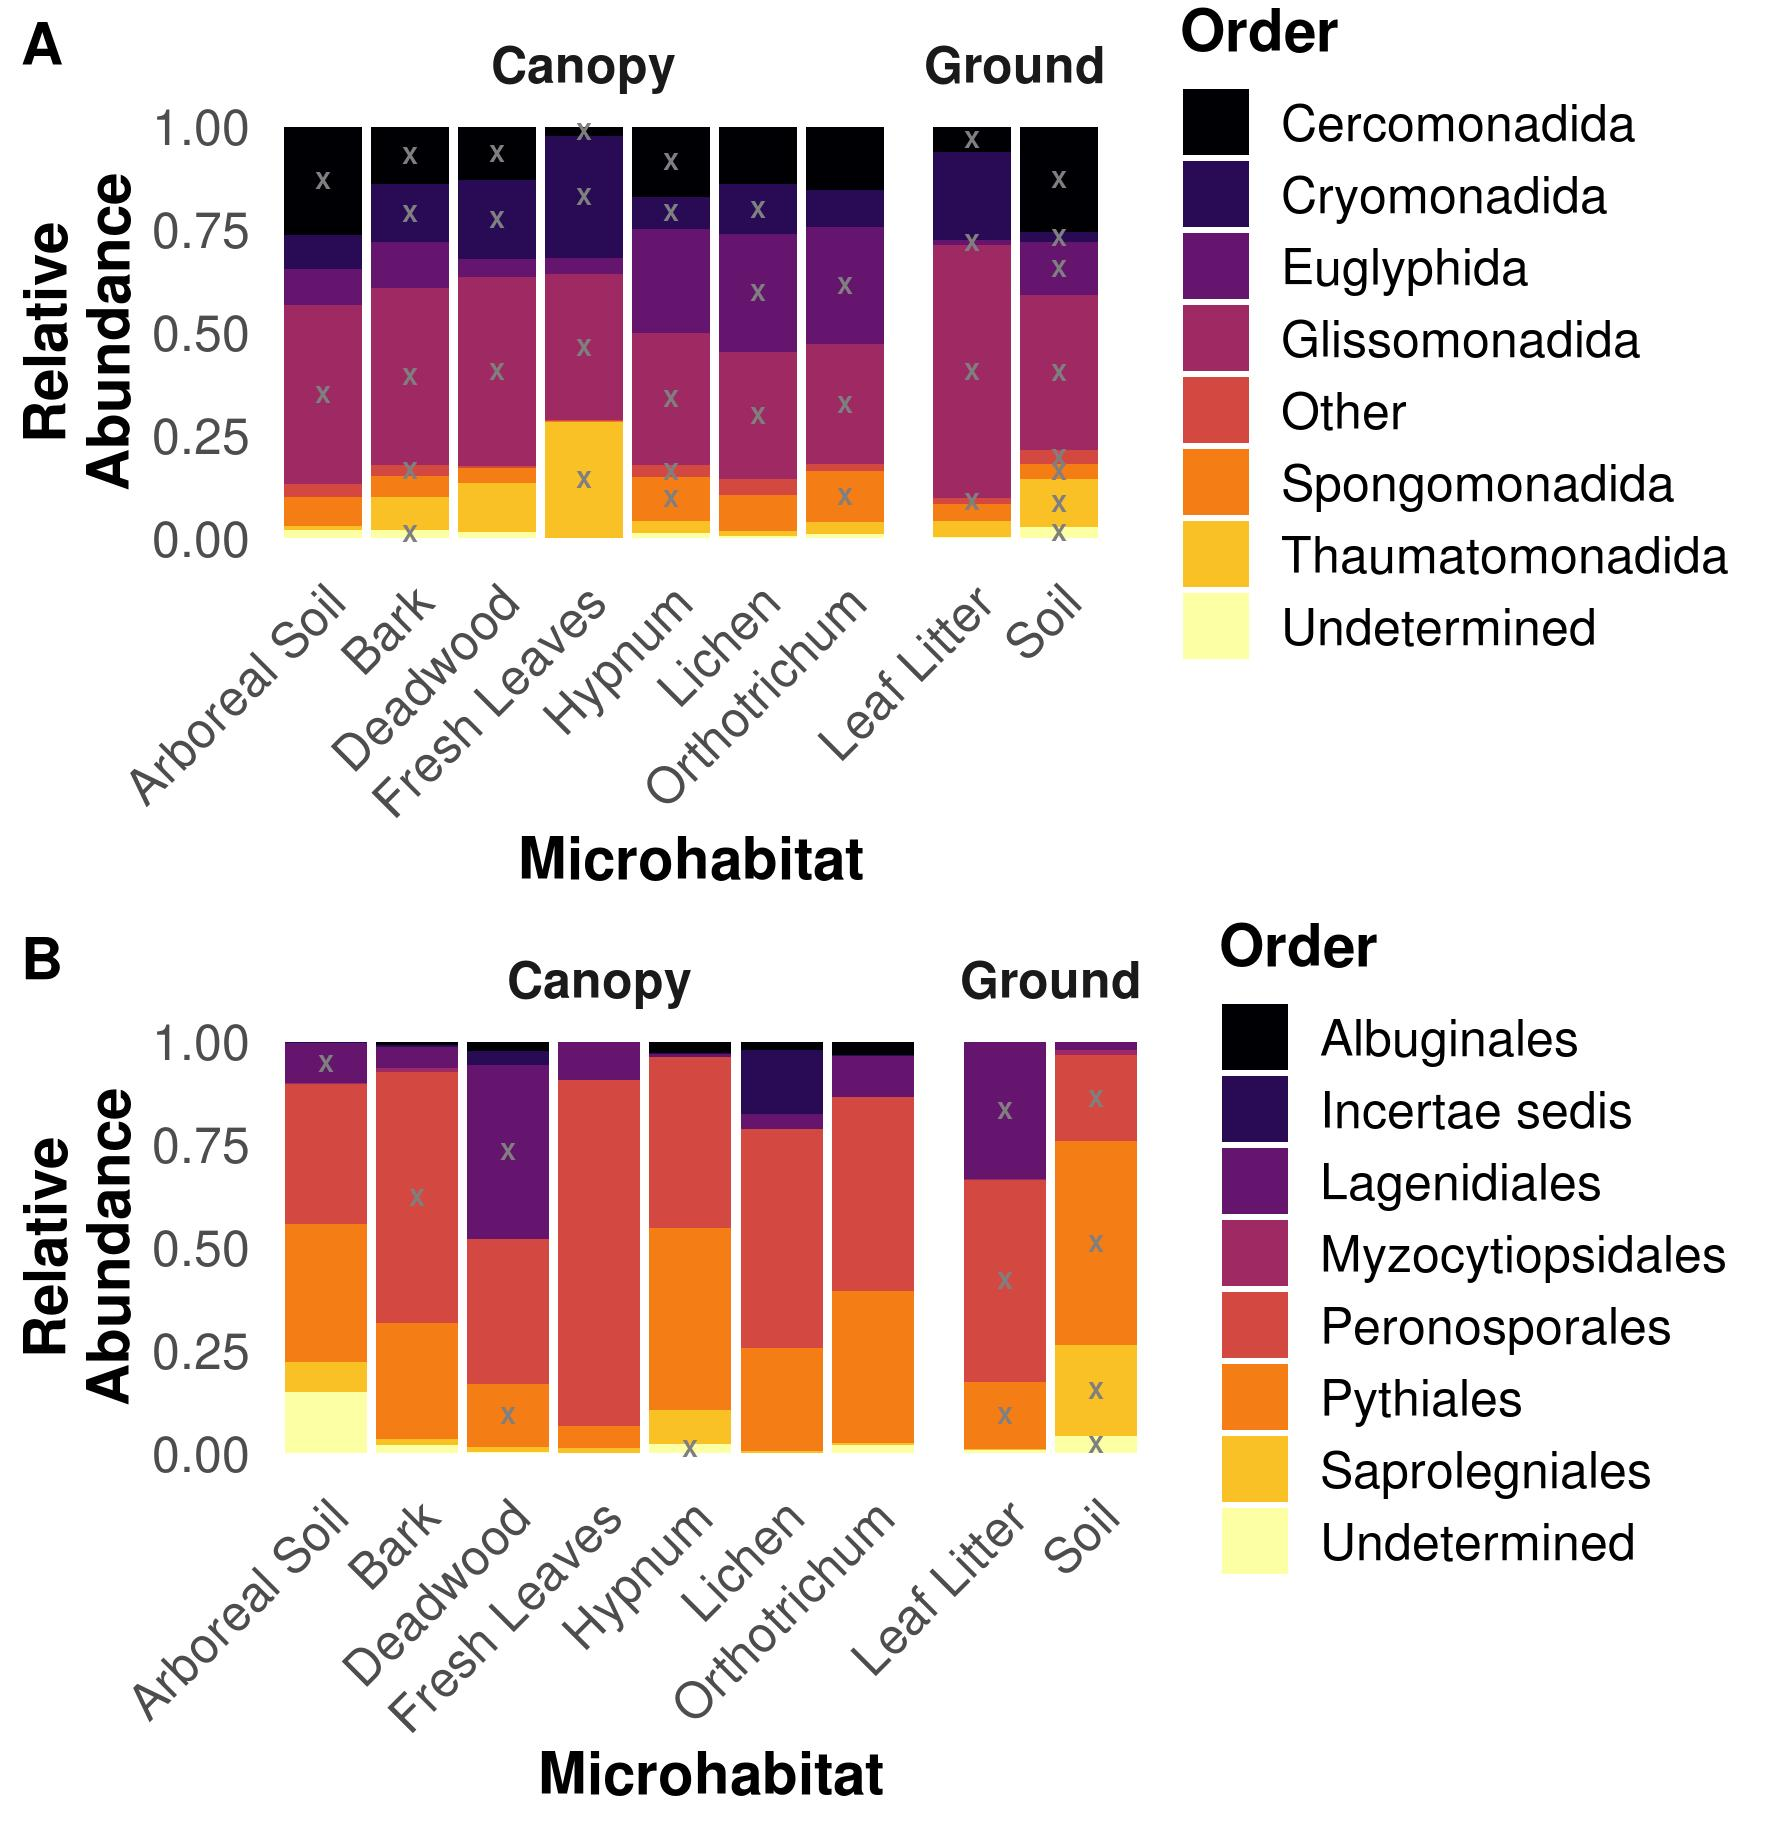
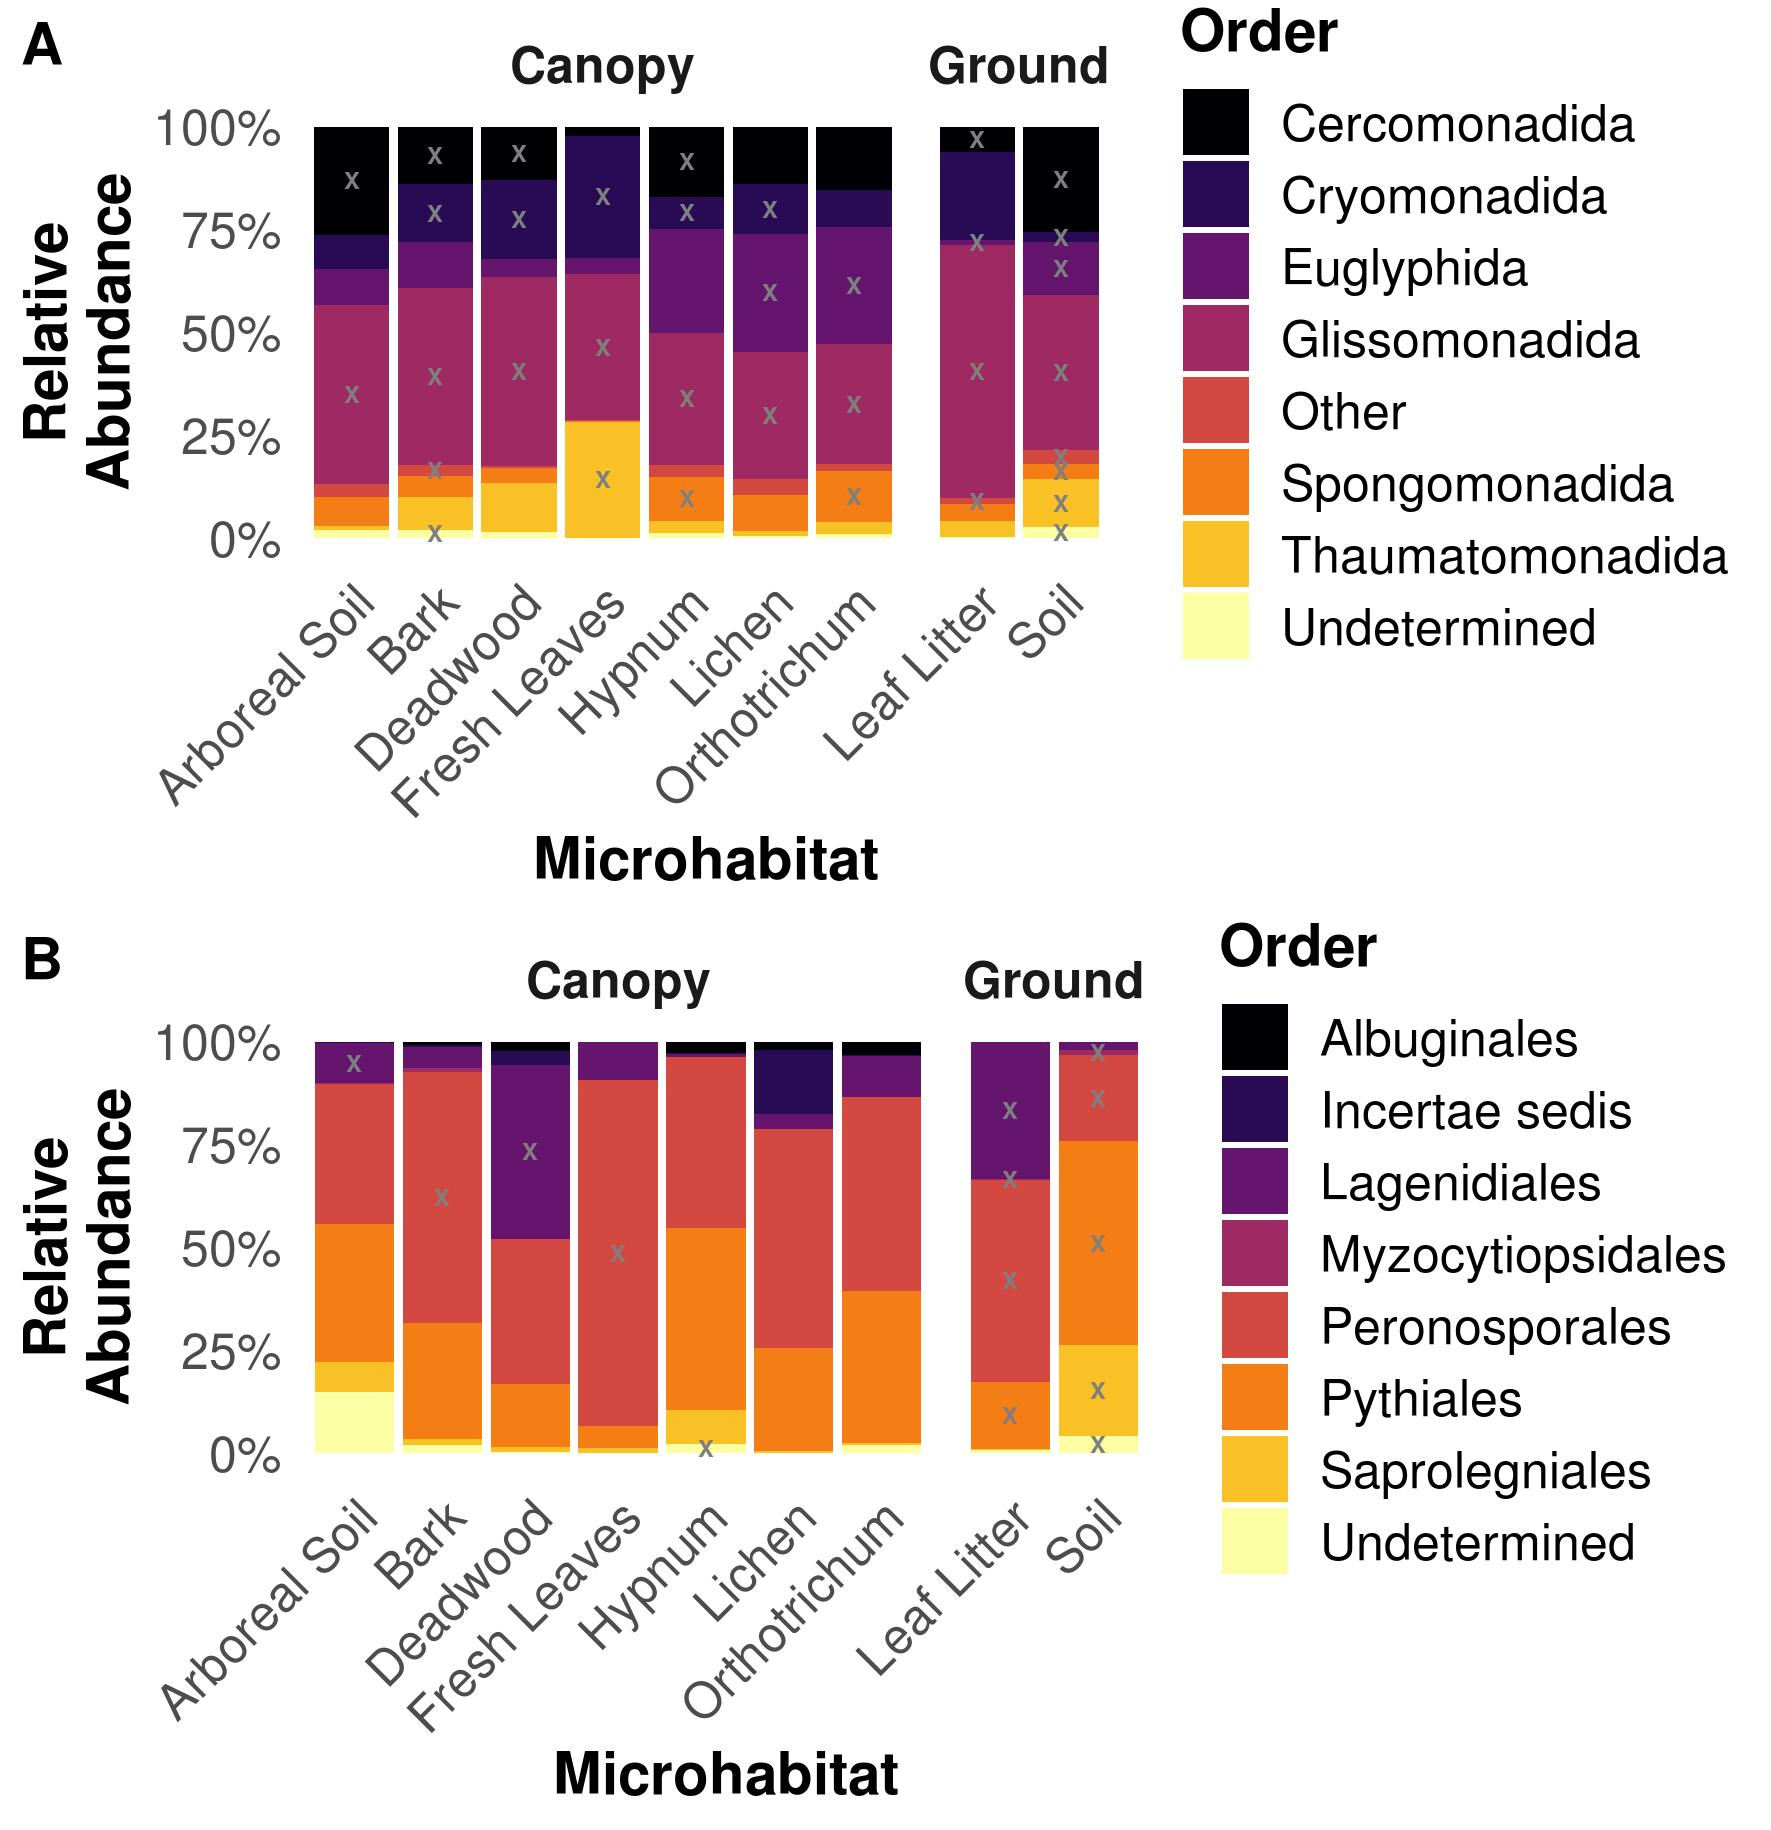
Converted labels in Taxonomy Plot to percent

diff --git a/02_Taxonomic_Annotation_and_Visualisation/TaxonomyPerMicrohabitat.md b/02_Taxonomic_Annotation_and_Visualisation/TaxonomyPerMicrohabitat.md
@@ -123,7 +123,7 @@ OrderData = OrderDataFunction(incidence = F)
 g = ggplot(OrderData, aes(x = Microhabitat, y = Abundance, fill = Order)) + 
   geom_bar(position = position_fill(), stat = "identity") + 
   facet_grid(cols = vars(Stratum), scales = "free", space = "free") + 
-  scale_y_continuous(labels = scales::comma) +
+  scale_y_continuous(labels = scales::percent) +
   labs(y = "Relative\nAbundance") + 
   scale_fill_viridis(discrete = T, option = "B") +
   theme_minimal() +
@@ -234,7 +234,7 @@ OrderData_cerco = OrderDataFunction_cerco(incidence = F)
 g_cerco = ggplot(OrderData_cerco, aes(x = Microhabitat, y = Abundance, fill = Order)) + 
   geom_bar(position = position_fill(), stat = "identity") + 
   facet_grid(cols = vars(Stratum), scales = "free", space = "free") + 
-  scale_y_continuous(labels = scales::comma) +
+  scale_y_continuous(labels = scales::percent) +
   labs(y = "Relative\nAbundance") + 
   scale_fill_viridis(discrete = T, option = "B") +
   #scale_fill_brewer(type = "qual", palette = "Paired") + 
@@ -264,15 +264,15 @@ combi = ggarrange(g_cerco, g,
 #ggsave("TaxonomicCompositionCombined.tif", plot = combi, 
 #       device = "tiff", dpi = 600, width = 30, height = 37, 
 #       units = "cm")
-ggsave("TaxonomyPerMicrohabitatCombined.png", plot = combi, 
-       device = "png", dpi = 300, width = 15, height = 15.5, 
-       units = "cm")
-ggsave("TaxonomyPerMicrohabitatCombined.jpeg", plot = combi, 
-       device = "jpeg", dpi = 300, width = 15, height = 15.5, 
-       units = "cm")
-ggsave("TaxonomyPerMicrohabitatCombined.pdf", plot = combi, 
-       device = "pdf", dpi = 300, width = 15, height = 15.5, 
-       units = "cm")
+#ggsave("TaxonomyPerMicrohabitatCombined.png", plot = combi, 
+#       device = "png", dpi = 300, width = 15, height = 15.5, 
+#       units = "cm")
+#ggsave("TaxonomyPerMicrohabitatCombined.jpeg", plot = combi, 
+#       device = "jpeg", dpi = 300, width = 15, height = 15.5, 
+#       units = "cm")
+#ggsave("TaxonomyPerMicrohabitatCombined.pdf", plot = combi, 
+#       device = "pdf", dpi = 300, width = 15, height = 15.5, 
+#       units = "cm")
 
 combi
 ```
@@ -327,7 +327,7 @@ g_Ind = ggplot(OrderData, aes(x = Microhabitat, y = Abundance, fill = Order)) +
   geom_text(aes(label = IndicatorSpecies), stat = "identity", 
             position = position_fill(vjust = 0.5), 
             size = 2, color = "grey50", fontface = "bold") +
-  scale_y_continuous(labels = scales::comma) +
+  scale_y_continuous(labels = scales::percent) +
   labs(y = "Relative\nAbundance") + 
   scale_fill_viridis(discrete = T, option = "B") +
   theme_minimal() +
@@ -342,8 +342,6 @@ g_Ind = ggplot(OrderData, aes(x = Microhabitat, y = Abundance, fill = Order)) +
 
 g_Ind
 ```
-
-    ## Warning: Removed 60 rows containing missing values (geom_text).
 
 ![](TaxonomyPerMicrohabitat_files/figure-markdown_github/IndicatorAnalysis-1.png)
 
@@ -393,7 +391,7 @@ g_cerco_Ind = ggplot(OrderData_cerco, aes(x = Microhabitat, y = Abundance, fill 
   geom_text(aes(label = IndicatorSpecies), stat = "identity", 
             position = position_fill(vjust = 0.5), 
             size = 2, color = "grey50", fontface = "bold") +
-  scale_y_continuous(labels = scales::comma) +
+  scale_y_continuous(labels = scales::percent) +
   labs(y = "Relative\nAbundance") + 
   scale_fill_viridis(discrete = T, option = "B") +
   theme_minimal() +
@@ -406,12 +404,10 @@ g_cerco_Ind = ggplot(OrderData_cerco, aes(x = Microhabitat, y = Abundance, fill 
         strip.text = element_text(size=12, face = "bold"), 
         panel.grid = element_blank())
 
-g_Ind
+g_cerco_Ind
 ```
 
-    ## Warning: Removed 60 rows containing missing values (geom_text).
-
-![](TaxonomyPerMicrohabitat_files/figure-markdown_github/unnamed-chunk-1-1.png)
+![](TaxonomyPerMicrohabitat_files/figure-markdown_github/CercoIndicatorAnalysis-1.png)
 
 Combine Indicator Analysis
 --------------------------
